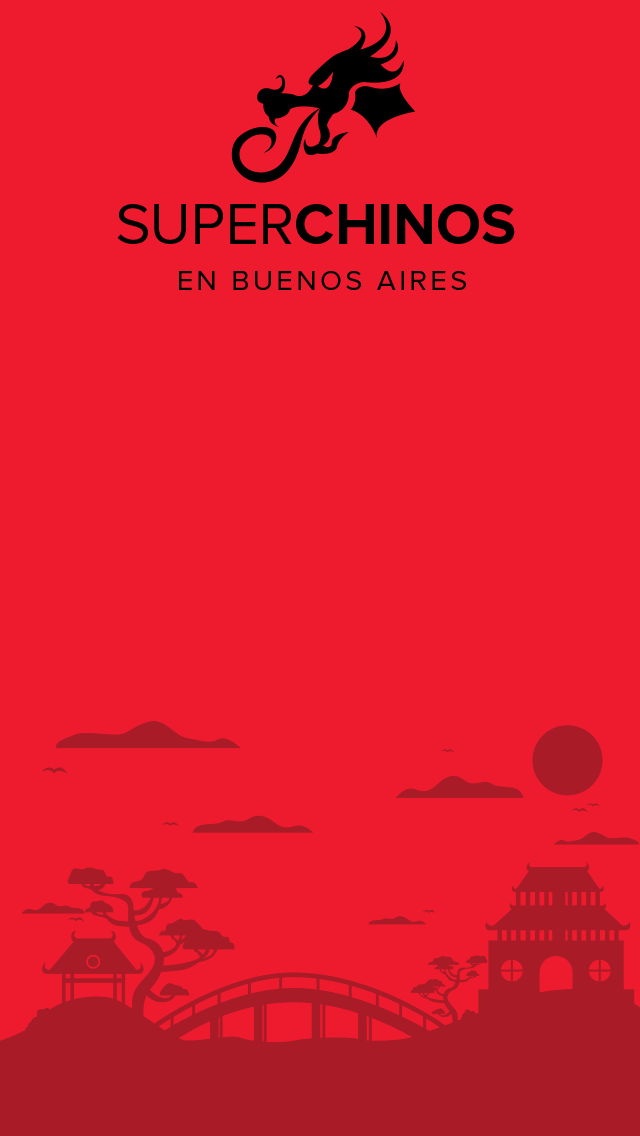
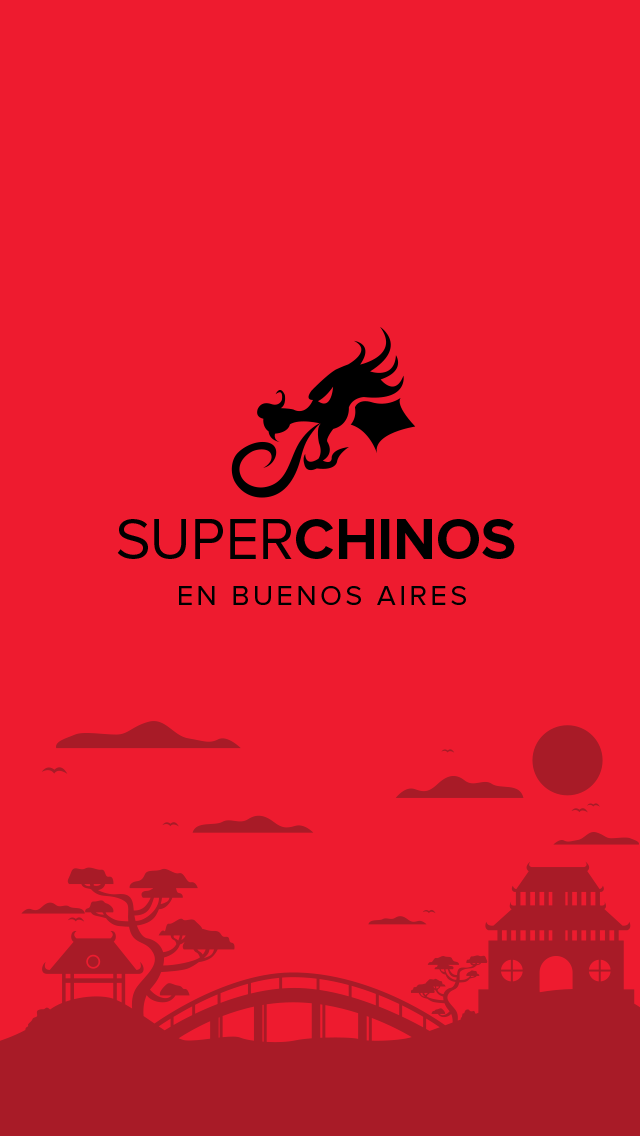
nuevo cambio statusbar

Changed region(s): [[0.1875, 0.0, 0.8125, 0.5546]]

diff --git a/index.html b/index.html
@@ -104,6 +104,14 @@
 			document.addEventListener("deviceready", onDeviceReady, false);
 		}
 		function onDeviceReady() {
+			/*
+			if (parseFloat(window.device.version) === 7.0) {
+				document.body.style.marginTop = "20px";				
+			}
+			*/
+			if(window.StatusBar) {
+				StatusBar.overlaysWebView(false);
+			}
 			setTimeout("ocultaLocation()",5000);
 		}
 		</script>

diff --git a/styles/app.css b/styles/app.css
@@ -1,5 +1,6 @@
 body {
 	overflow: auto;
+	/* position:relative; */
 	font-family: 'Lato', sans-serif;
 	font-weight:400;
 	 -webkit-overflow-scrolling: touch;
